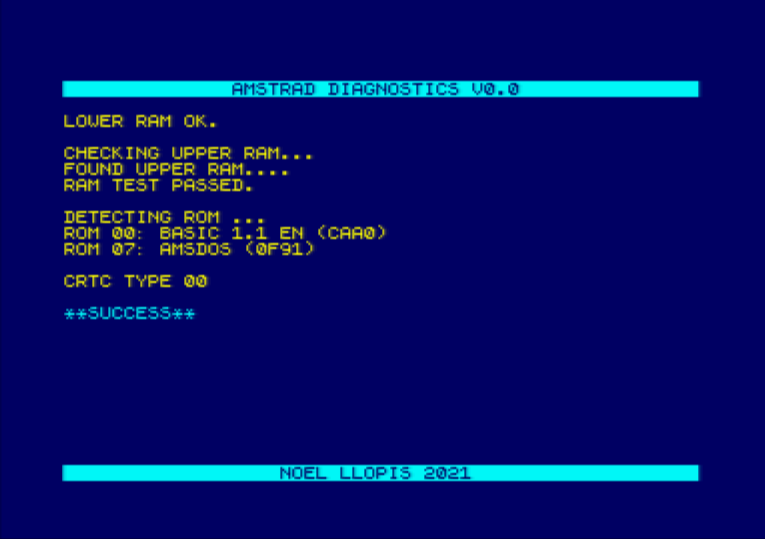
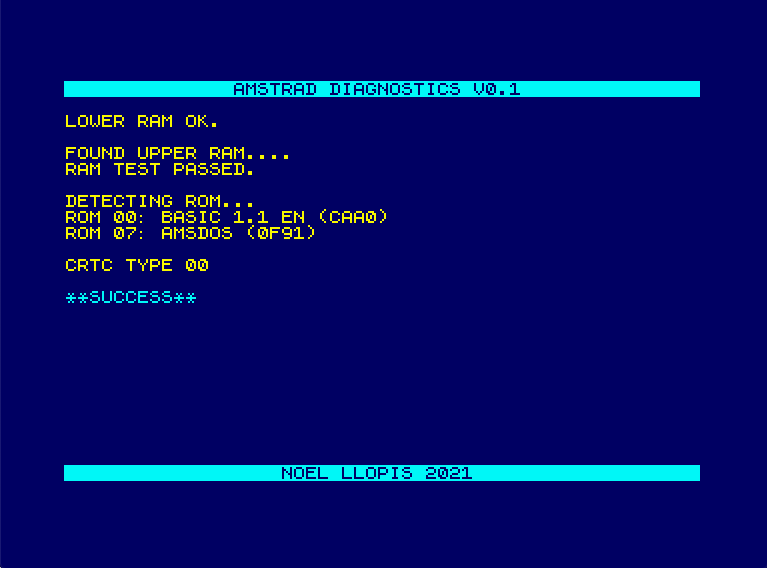
Updated to v0.1 and README
Also building both regular and Dandanator ROMs.

diff --git a/README.md b/README.md
@@ -1,20 +1,32 @@
 # amstrad-diagnostics
 Diagnostic Tests for the Amstrad CPC
 
-Right now it does three things:
+This test is intended to be run from the low ROM of the Amstrad CPC at startup.
 * Lower RAM test (errors reported with bars on border).
 * Upper RAM test (64K).
+* Dandanator build only: Check the low system ROM is valid.
 * Check that upper system ROMs are valid.
 * Detect CRTC model.
 
-![image](/images/success.png)
-![image](/images/failure.png)
+![image](/images/Success.png)
+
+When the test is first launched, it starts by verifying that the lower 64KB of RAM are working correctly. If any faults are detected, the test stops with a screen like this. The numbers indicate the data bits, and the ones in red are faulty and the ones in green are working correctly. A faulty bit indicates a faulty IC.
+![image](/images/LowerRAMFailure.png)
+
+Then, if it detects the upper 64KB of RAM, it runs some tests to verify that memory is working correctly. Otherwise, it shows the error and points to the faulty ICs (on a CPC 6218).
+![image](/images/UpperRAMFailure.png)
+
+Finally it does some checks on the system ROMs to make sure they match known ROMs and they're not corrupted. It also detects the CRTC type.
+
 
 # TODO
-* Check system lower ROM
+* Better RAM tests
+* Detect addressing problems vs bit problems
 * Identify ROMs in more languages
-* Detect Plus range.
+* Detect Plus range
 * Different IC numbers if detecting CRTC 4?
+* Sound, keyboard, and joystick tests
+* Maybe disk controller tests
 
 # Credits
 
